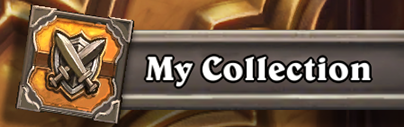
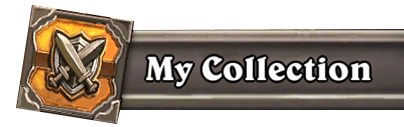
改变了部分ui界面大小，添加了少量图片素材

diff --git a/Classes/HelloWorldScene.cpp b/Classes/HelloWorldScene.cpp
@@ -78,25 +78,7 @@ bool HelloWorld::init()
     /////////////////////////////
     // 3. add your codes below...
 
-    // add a label shows "Hello World"
-    // create and initialize a label
-
-    auto label = Label::createWithTTF("Hello World", "fonts/Marker Felt.ttf", 24);
-    if (label == nullptr)
-    {
-        problemLoading("'fonts/Marker Felt.ttf'");
-    }
-    else
-    {
-        // position the label on the center of the screen
-        label->setPosition(Vec2(origin.x + visibleSize.width/2,
-                                origin.y + visibleSize.height - label->getContentSize().height));
-
-        // add the label as a child to this layer
-        this->addChild(label, 1);
-    }
-
-    // add "HelloWorld" splash screen"
+    
     auto sprite = Sprite::create("cover.png");
     if (sprite == nullptr)
     {

diff --git a/Classes/board/BoardScene.cpp b/Classes/board/BoardScene.cpp
@@ -18,9 +18,9 @@ bool BoardScene::init() {
     const auto visibleSize = Director::getInstance()->getVisibleSize();
     const Vec2 origin = Director::getInstance()->getVisibleOrigin();
 
-    auto title_sprite = Sprite::create("heartstone_title.webp");
+    auto title_sprite = Sprite::create("board.png");
     if (title_sprite == nullptr) {
-        problemLoading("heartstone_title.webp");
+        problemLoading("board.png");
         return false;
     }
     else {

diff --git a/Classes/AppDelegate.cpp b/Classes/AppDelegate.cpp
@@ -18,7 +18,7 @@ using namespace CocosDenshion;
 
 USING_NS_CC;
 
-static cocos2d::Size designResolutionSize = cocos2d::Size(1280, 720);
+static cocos2d::Size designResolutionSize = cocos2d::Size(2048, 1280);
 static cocos2d::Size smallResolutionSize = cocos2d::Size(480, 320);
 static cocos2d::Size mediumResolutionSize = cocos2d::Size(1024, 768);
 static cocos2d::Size largeResolutionSize = cocos2d::Size(2048, 1536);
